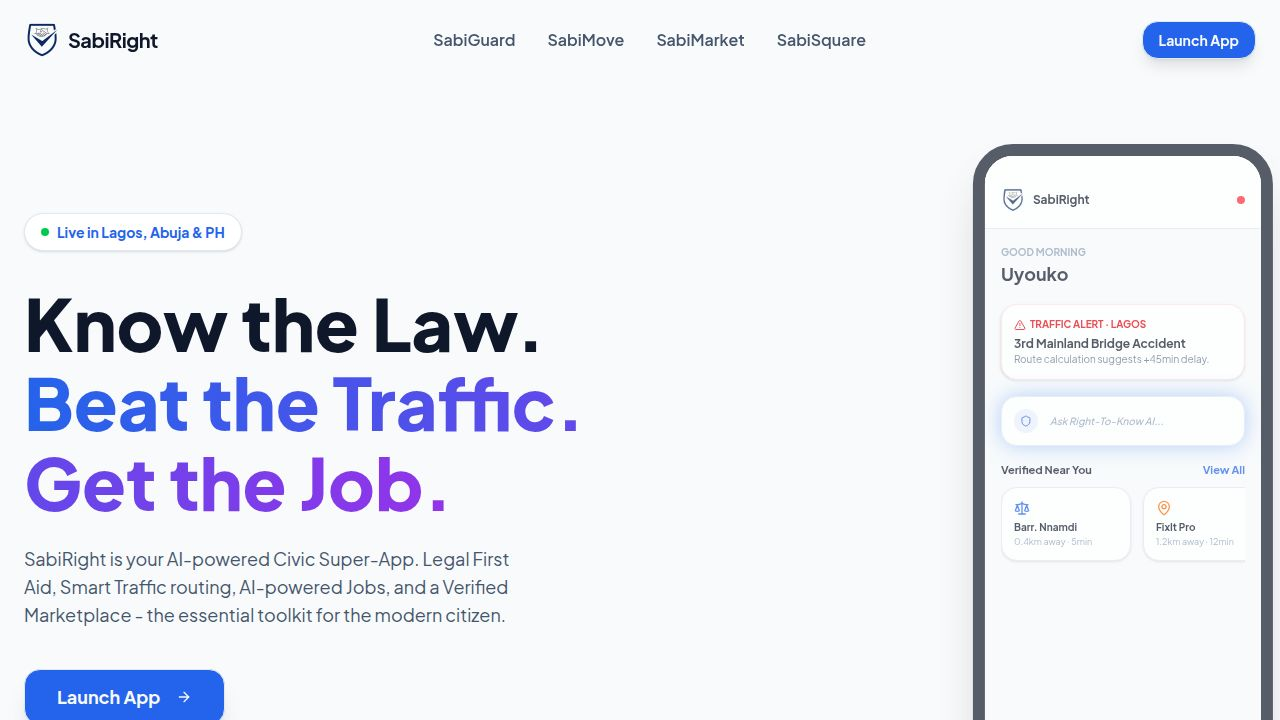
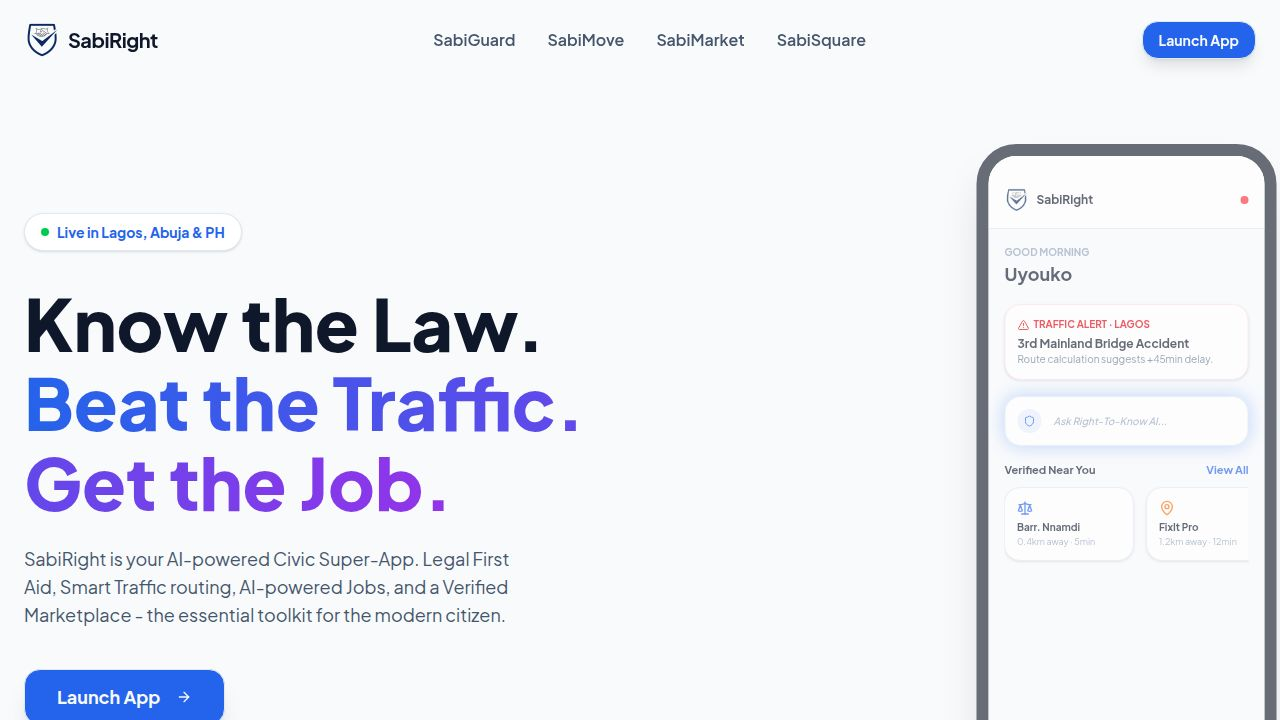
Improve the responsiveness and visual appeal of the admin dashboard
Refactor AdminDashboard.tsx to enhance UI responsiveness across different screen sizes and update the visual presentation of dashboard statistics using Tailwind CSS and Shadcn UI components.

Replit-Commit-Author: Agent
Replit-Commit-Session-Id: 5164c6ee-1e2a-4729-91ba-0cf92a8722cb
Replit-Commit-Checkpoint-Type: intermediate_checkpoint
Replit-Commit-Event-Id: 36d53b2d-1240-4bfb-9446-71a9774e2a35
Replit-Commit-Screenshot-Url: https://storage.googleapis.com/screenshot-production-us-central1/676fe46c-89a2-403b-a68c-b116a8b372ad/5164c6ee-1e2a-4729-91ba-0cf92a8722cb/r1HEgqm
Replit-Helium-Checkpoint-Created: true

diff --git a/client/src/pages/admin/AdminDashboard.tsx b/client/src/pages/admin/AdminDashboard.tsx
@@ -288,73 +288,83 @@ export default function AdminDashboard() {
   };
 
   return (
-    <div className="min-h-screen bg-slate-50 p-6">
-      <div className="max-w-7xl mx-auto space-y-8">
-        <div className="flex items-center justify-between">
+    <div className="min-h-screen bg-slate-50 p-3 md:p-6 pb-20">
+      <div className="max-w-7xl mx-auto space-y-6">
+        <div className="flex flex-col sm:flex-row sm:items-center justify-between gap-3">
           <div>
-            <h1 className="text-3xl font-bold">Admin Dashboard</h1>
-            <p className="text-slate-500">Manage your platform settings and users</p>
+            <h1 className="text-2xl md:text-3xl font-bold">Admin Dashboard</h1>
+            <p className="text-sm md:text-base text-slate-500">Manage your platform settings and users</p>
           </div>
-          <Badge className="bg-red-600 text-white">Admin Access</Badge>
+          <Badge className="bg-red-600 text-white w-fit">Admin Access</Badge>
         </div>
 
         {/* Stats Overview */}
-        <div className="grid md:grid-cols-4 gap-4">
-          <Card>
-            <CardContent className="p-4">
-              <div className="flex items-center gap-3">
-                <Users className="h-8 w-8 text-blue-600" />
+        <div className="grid grid-cols-2 lg:grid-cols-4 gap-3">
+          <Card className="bg-gradient-to-br from-blue-50 to-blue-100/50 border-blue-200">
+            <CardContent className="p-3 md:p-4">
+              <div className="flex items-center gap-2 md:gap-3">
+                <div className="h-10 w-10 rounded-xl bg-blue-100 flex items-center justify-center">
+                  <Users className="h-5 w-5 text-blue-600" />
+                </div>
                 <div>
-                  <p className="text-2xl font-bold">{users.length}</p>
-                  <p className="text-xs text-slate-500">Total Users</p>
+                  <p className="text-xl md:text-2xl font-bold text-blue-700">{users.length}</p>
+                  <p className="text-[10px] md:text-xs text-blue-600/70">Total Users</p>
                 </div>
               </div>
             </CardContent>
           </Card>
-          <Card>
-            <CardContent className="p-4">
-              <div className="flex items-center gap-3">
-                <Store className="h-8 w-8 text-green-600" />
+          <Card className="bg-gradient-to-br from-green-50 to-green-100/50 border-green-200">
+            <CardContent className="p-3 md:p-4">
+              <div className="flex items-center gap-2 md:gap-3">
+                <div className="h-10 w-10 rounded-xl bg-green-100 flex items-center justify-center">
+                  <Store className="h-5 w-5 text-green-600" />
+                </div>
                 <div>
-                  <p className="text-2xl font-bold">{vendorApps.filter((a: any) => a.status === 'approved').length}</p>
-                  <p className="text-xs text-slate-500">Active Vendors</p>
+                  <p className="text-xl md:text-2xl font-bold text-green-700">{vendorApps.filter((a: any) => a.status === 'approved').length}</p>
+                  <p className="text-[10px] md:text-xs text-green-600/70">Active Vendors</p>
                 </div>
               </div>
             </CardContent>
           </Card>
-          <Card>
-            <CardContent className="p-4">
-              <div className="flex items-center gap-3">
-                <Calendar className="h-8 w-8 text-purple-600" />
+          <Card className="bg-gradient-to-br from-purple-50 to-purple-100/50 border-purple-200">
+            <CardContent className="p-3 md:p-4">
+              <div className="flex items-center gap-2 md:gap-3">
+                <div className="h-10 w-10 rounded-xl bg-purple-100 flex items-center justify-center">
+                  <Calendar className="h-5 w-5 text-purple-600" />
+                </div>
                 <div>
-                  <p className="text-2xl font-bold">{events.length}</p>
-                  <p className="text-xs text-slate-500">Events</p>
+                  <p className="text-xl md:text-2xl font-bold text-purple-700">{events.length}</p>
+                  <p className="text-[10px] md:text-xs text-purple-600/70">Events</p>
                 </div>
               </div>
             </CardContent>
           </Card>
-          <Card>
-            <CardContent className="p-4">
-              <div className="flex items-center gap-3">
-                <CreditCard className="h-8 w-8 text-yellow-600" />
+          <Card className="bg-gradient-to-br from-amber-50 to-amber-100/50 border-amber-200">
+            <CardContent className="p-3 md:p-4">
+              <div className="flex items-center gap-2 md:gap-3">
+                <div className="h-10 w-10 rounded-xl bg-amber-100 flex items-center justify-center">
+                  <CreditCard className="h-5 w-5 text-amber-600" />
+                </div>
                 <div>
-                  <p className="text-2xl font-bold">{payments.length}</p>
-                  <p className="text-xs text-slate-500">Transactions</p>
+                  <p className="text-xl md:text-2xl font-bold text-amber-700">{payments.length}</p>
+                  <p className="text-[10px] md:text-xs text-amber-600/70">Transactions</p>
                 </div>
               </div>
             </CardContent>
           </Card>
         </div>
 
-        <Tabs defaultValue="settings" className="space-y-6">
-          <TabsList className="bg-white border flex-wrap">
-            <TabsTrigger value="settings"><Settings className="h-4 w-4 mr-2" /> Settings</TabsTrigger>
-            <TabsTrigger value="api-keys"><Key className="h-4 w-4 mr-2" /> API Keys</TabsTrigger>
-            <TabsTrigger value="plans"><CreditCard className="h-4 w-4 mr-2" /> Plans</TabsTrigger>
-            <TabsTrigger value="payments"><CreditCard className="h-4 w-4 mr-2" /> Payments</TabsTrigger>
-            <TabsTrigger value="users"><Users className="h-4 w-4 mr-2" /> Users</TabsTrigger>
-            <TabsTrigger value="vendors"><Store className="h-4 w-4 mr-2" /> Vendors</TabsTrigger>
-          </TabsList>
+        <Tabs defaultValue="settings" className="space-y-4">
+          <div className="overflow-x-auto -mx-3 px-3 pb-1">
+            <TabsList className="bg-white border inline-flex w-auto min-w-full md:w-full">
+              <TabsTrigger value="settings" className="text-xs md:text-sm whitespace-nowrap"><Settings className="h-3 w-3 md:h-4 md:w-4 mr-1 md:mr-2" /><span className="hidden sm:inline">Settings</span><span className="sm:hidden">Set</span></TabsTrigger>
+              <TabsTrigger value="api-keys" className="text-xs md:text-sm whitespace-nowrap"><Key className="h-3 w-3 md:h-4 md:w-4 mr-1 md:mr-2" /><span className="hidden sm:inline">API Keys</span><span className="sm:hidden">API</span></TabsTrigger>
+              <TabsTrigger value="plans" className="text-xs md:text-sm whitespace-nowrap"><CreditCard className="h-3 w-3 md:h-4 md:w-4 mr-1 md:mr-2" /> Plans</TabsTrigger>
+              <TabsTrigger value="payments" className="text-xs md:text-sm whitespace-nowrap"><CreditCard className="h-3 w-3 md:h-4 md:w-4 mr-1 md:mr-2" /><span className="hidden sm:inline">Payments</span><span className="sm:hidden">Pay</span></TabsTrigger>
+              <TabsTrigger value="users" className="text-xs md:text-sm whitespace-nowrap"><Users className="h-3 w-3 md:h-4 md:w-4 mr-1 md:mr-2" /> Users</TabsTrigger>
+              <TabsTrigger value="vendors" className="text-xs md:text-sm whitespace-nowrap"><Store className="h-3 w-3 md:h-4 md:w-4 mr-1 md:mr-2" /><span className="hidden sm:inline">Vendors</span><span className="sm:hidden">Vend</span></TabsTrigger>
+            </TabsList>
+          </div>
 
           {/* Settings Tab */}
           <TabsContent value="settings">
@@ -643,14 +653,15 @@ export default function AdminDashboard() {
                   <CardTitle>Create New Plan</CardTitle>
                 </CardHeader>
                 <CardContent>
-                  <div className="grid md:grid-cols-3 gap-4">
+                  <div className="grid grid-cols-2 md:grid-cols-3 gap-3">
                     <Input
                       placeholder="Plan Name"
                       value={newPlan.name}
                       onChange={(e) => setNewPlan({ ...newPlan, name: e.target.value })}
+                      className="col-span-2 md:col-span-1"
                     />
                     <select
-                      className="h-10 px-3 border rounded-md"
+                      className="h-10 px-3 border rounded-md text-sm"
                       value={newPlan.type}
                       onChange={(e) => setNewPlan({ ...newPlan, type: e.target.value })}
                     >
@@ -660,7 +671,7 @@ export default function AdminDashboard() {
                       <option value="enterprise">Enterprise</option>
                     </select>
                     <select
-                      className="h-10 px-3 border rounded-md"
+                      className="h-10 px-3 border rounded-md text-sm"
                       value={newPlan.userType}
                       onChange={(e) => setNewPlan({ ...newPlan, userType: e.target.value })}
                     >
@@ -683,6 +694,7 @@ export default function AdminDashboard() {
                       placeholder="Description"
                       value={newPlan.description}
                       onChange={(e) => setNewPlan({ ...newPlan, description: e.target.value })}
+                      className="col-span-2 md:col-span-1"
                     />
                   </div>
                   <Button 
@@ -783,16 +795,16 @@ export default function AdminDashboard() {
                 ) : (
                   <div className="space-y-3">
                     {payments.map((payment: any) => (
-                      <div key={payment.id} className="p-4 border rounded-lg flex items-center justify-between">
+                      <div key={payment.id} className="p-3 md:p-4 border rounded-lg flex flex-col sm:flex-row sm:items-center justify-between gap-2">
                         <div>
-                          <p className="font-bold">{payment.type}</p>
-                          <p className="text-sm text-slate-500">{payment.description}</p>
-                          <p className="text-xs text-slate-400">
+                          <p className="font-bold text-sm">{payment.type}</p>
+                          <p className="text-xs md:text-sm text-slate-500">{payment.description}</p>
+                          <p className="text-[10px] md:text-xs text-slate-400">
                             {new Date(payment.createdAt).toLocaleString()}
                           </p>
                         </div>
-                        <div className="text-right">
-                          <p className="font-bold text-lg">{payment.currency} {payment.amount}</p>
+                        <div className="text-left sm:text-right flex sm:flex-col items-center sm:items-end gap-2 sm:gap-0">
+                          <p className="font-bold text-base md:text-lg">{payment.currency} {payment.amount}</p>
                           <Badge className={
                             payment.status === 'completed' ? 'bg-green-100 text-green-800' :
                             payment.status === 'pending' ? 'bg-yellow-100 text-yellow-800' :
@@ -819,31 +831,34 @@ export default function AdminDashboard() {
                 {users.length === 0 ? (
                   <p className="text-center py-8 text-slate-400">No users registered yet</p>
                 ) : (
-                  <div className="space-y-4">
+                  <div className="space-y-3">
                     {users.map((user: any) => (
-                      <div key={user.userId} className="p-4 border rounded-lg">
-                        <div className="flex items-start justify-between">
+                      <div key={user.userId} className="p-3 md:p-4 border rounded-lg">
+                        <div className="flex flex-col sm:flex-row sm:items-start justify-between gap-2">
                           <div>
-                            <p className="font-bold">{user.displayName || 'Unknown'}</p>
-                            <p className="text-sm text-slate-500">{user.email}</p>
-                            <p className="text-xs text-slate-400">ID: {user.userId}</p>
+                            <p className="font-bold text-sm md:text-base">{user.displayName || 'Unknown'}</p>
+                            <p className="text-xs md:text-sm text-slate-500 truncate max-w-[200px] md:max-w-none">{user.email}</p>
+                            <p className="text-[10px] md:text-xs text-slate-400 truncate max-w-[150px] md:max-w-none">ID: {user.userId}</p>
                           </div>
-                          <div className="flex items-center gap-2">
-                            <Badge className={
+                          <div className="flex items-center gap-2 flex-wrap">
+                            <Badge className={`text-[10px] md:text-xs ${
                               user.kycStatus === 'verified' ? 'bg-green-100 text-green-800' : 
                               user.kycStatus === 'rejected' ? 'bg-red-100 text-red-800' :
                               'bg-yellow-100 text-yellow-800'
-                            }>
+                            }`}>
                               KYC: {user.kycStatus || 'pending'}
                             </Badge>
                             {user.isVendor && (
-                              <Badge className="bg-purple-100 text-purple-800">Vendor</Badge>
+                              <Badge className="bg-purple-100 text-purple-800 text-[10px] md:text-xs">Vendor</Badge>
+                            )}
+                            {user.isAdmin && (
+                              <Badge className="bg-red-100 text-red-800 text-[10px] md:text-xs">Admin</Badge>
                             )}
                           </div>
                         </div>
                         
                         {/* User Actions */}
-                        <div className="mt-4 pt-4 border-t flex flex-wrap gap-2 items-center">
+                        <div className="mt-3 pt-3 border-t flex flex-wrap gap-2 items-center">
                           {/* KYC Actions */}
                           {user.kycStatus === 'pending' && (
                             <>
@@ -955,38 +970,39 @@ export default function AdminDashboard() {
                 ) : (
                   <div className="space-y-3">
                     {vendorApps.map((app: any) => (
-                      <div key={app.id} className="p-4 border rounded-lg">
-                        <div className="flex items-start justify-between">
+                      <div key={app.id} className="p-3 md:p-4 border rounded-lg">
+                        <div className="flex flex-col sm:flex-row sm:items-start justify-between gap-2">
                           <div>
-                            <p className="font-bold">{app.businessName}</p>
-                            <p className="text-sm text-slate-500">{app.serviceType}</p>
-                            <p className="text-xs text-slate-400">
+                            <p className="font-bold text-sm md:text-base">{app.businessName}</p>
+                            <p className="text-xs md:text-sm text-slate-500">{app.serviceType}</p>
+                            <p className="text-[10px] md:text-xs text-slate-400">
                               Applied: {new Date(app.createdAt).toLocaleDateString()}
                             </p>
                           </div>
-                          <div className="flex items-center gap-2">
-                            <Badge className={
+                          <div className="flex items-center gap-2 flex-wrap">
+                            <Badge className={`text-[10px] md:text-xs ${
                               app.status === 'approved' ? 'bg-green-100 text-green-800' :
                               app.status === 'rejected' ? 'bg-red-100 text-red-800' :
                               'bg-yellow-100 text-yellow-800'
-                            }>
+                            }`}>
                               {app.status}
                             </Badge>
                             {app.status === 'pending' && (
                               <>
                                 <Button 
                                   size="sm" 
-                                  className="bg-green-600 hover:bg-green-700"
+                                  className="bg-green-600 hover:bg-green-700 h-7 md:h-8"
                                   onClick={() => approveVendor.mutate(app.userId)}
                                 >
-                                  <CheckCircle2 className="h-4 w-4" />
+                                  <CheckCircle2 className="h-3 w-3 md:h-4 md:w-4" />
                                 </Button>
                                 <Button 
                                   size="sm" 
                                   variant="destructive"
+                                  className="h-7 md:h-8"
                                   onClick={() => rejectVendor.mutate(app.userId)}
                                 >
-                                  <XCircle className="h-4 w-4" />
+                                  <XCircle className="h-3 w-3 md:h-4 md:w-4" />
                                 </Button>
                               </>
                             )}